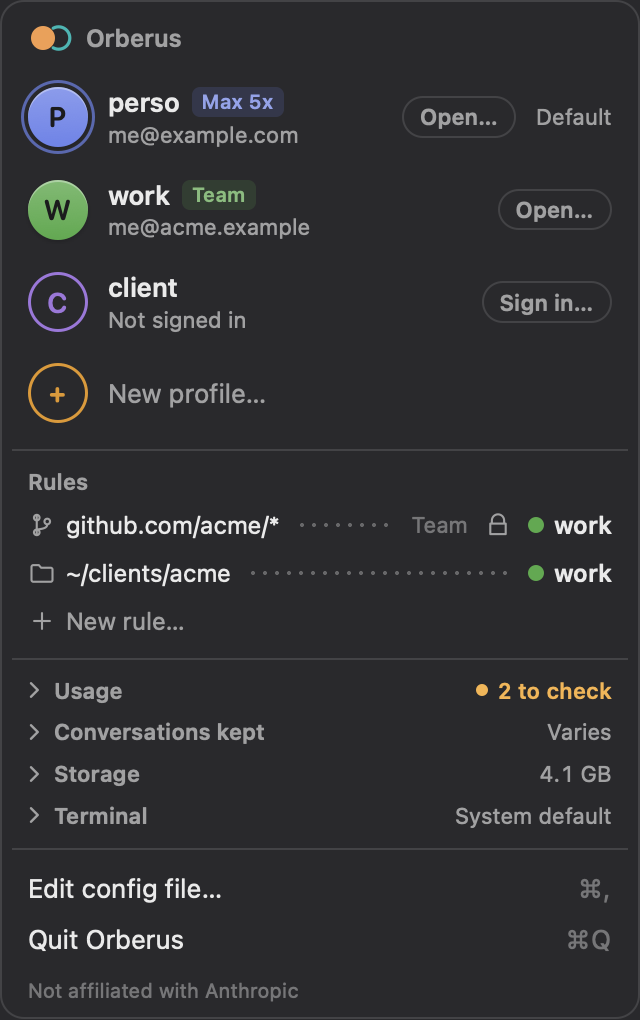
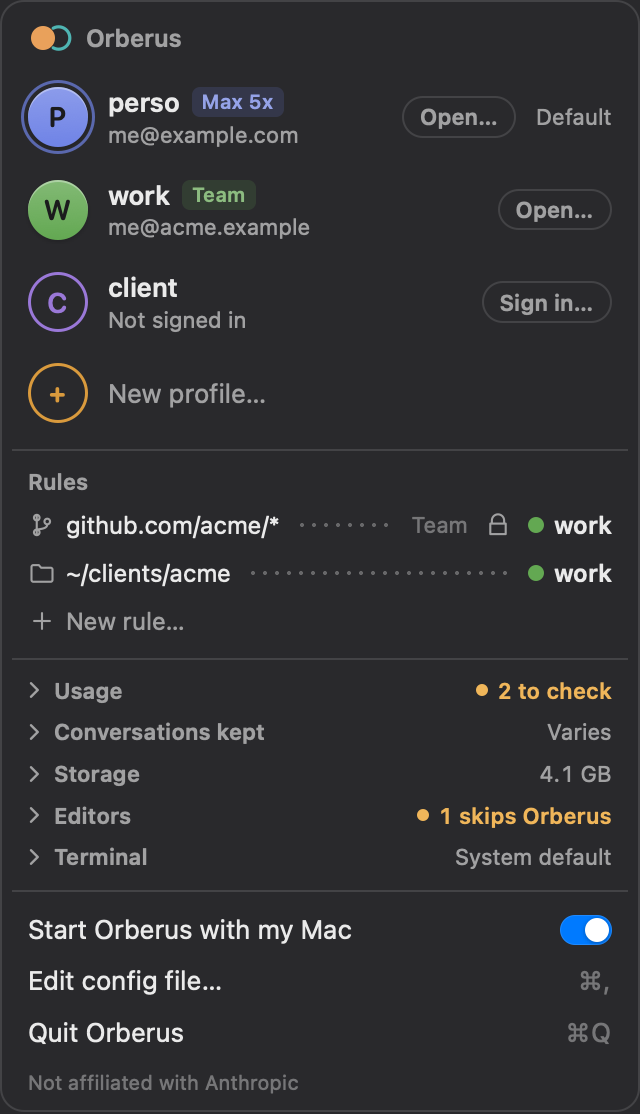
Bring the docs up to date with the app
The README, installation, how-it-works and troubleshooting pages now say
that the app opens at login by default and how to stop it, name the file
it writes, and mention the Editors section. The README's pictures of the
app are drawn again from the current interface.

diff --git a/app/src/api.ts b/app/src/api.ts
@@ -338,7 +338,8 @@ function preview(): Api {
     shimInstalled: true,
     canReuseLogin: false,
     terminal: null,
-    openAtLogin: false,
+    // On by default, as in the real app.
+    openAtLogin: true,
     profiles: [
       { name: "perso", account: "me@example.com", plan: "Max 5x", location: "~/.claude", native: true, isDefault: true, rules: 0, teamRules: 0, canPurge: false, keepsDays: 120, keepsError: null },
       {

diff --git a/README.md b/README.md
@@ -66,7 +66,8 @@ logos belong to their owners and only say what Orberus works with.
   conversations are kept, and move the biggest ones to the Trash.
 - **Limits at a glance**: the 5-hour and weekly limits of each account, side
   by side.
-- **Menu bar app** (optional): the same profiles and rules, one click away.
+- **Menu bar app** (optional): the same profiles and rules, one click away,
+  back in the menu bar each time you log in.
 
 <p align="center">
   <picture>
@@ -262,9 +263,12 @@ $ orberus retention work 365
 ### Menu bar app
 
 A small app that lives in the menu bar: your profiles and who is logged in to
-each, the rules, the limits and the usage by project, the disk space, and a
-button to open Claude Code in a profile. It speaks English and French.
-It reads and writes the same config as the CLI and is optional. See
+each, the rules, the limits and the usage by project, the disk space, your
+editors, and a button to open Claude Code in a profile. It speaks English and
+French, and opens by itself when you log in unless you turn that off.
+
+It reads and writes the same config as the CLI and is optional: `claude`
+picks the account by folder whether the app is open or not. See
 [docs/app.md](docs/app.md).
 
 ## Safety
@@ -283,6 +287,8 @@ It reads and writes the same config as the CLI and is optional. See
   last hour, since it may still be open. It never touches `memory/` folders.
 - `remove` keeps the profile's folder, so its login and history stay on disk.
   Only `remove --purge` deletes them, and it is refused for `~/.claude`.
+- The menu bar app writes one file outside `~/.orberus`, the one that opens
+  it when you log in. Its switch and `uninstall` delete it.
 - `uninstall` removes the tool and keeps your profiles. Nothing ever deletes
   `~/.claude`.
 

diff --git a/docs/installation.md b/docs/installation.md
@@ -70,6 +70,10 @@ open "/Applications/Orberus.app"
 
 The app is not signed either, so the same remark about `curl` applies.
 
+From then on the app opens by itself each time you log in, and macOS may tell
+you a background item was added. To stop that, turn off "Start Orberus with
+my Mac" at the bottom of its window. See [app.md](app.md#opening-it).
+
 ## Update
 
 Run the install commands again. For the app, quit it first (right-click its
@@ -85,8 +89,9 @@ orberus uninstall
 
 It removes the shim, the `PATH` line that `setup` added to your shell config,
 the setting that `orberus ide on` wrote in your editors, `orberus` itself and
-the menu bar app (moved to the Trash), after showing you the list and asking. Open a new terminal afterwards: `claude` is the real
-Claude Code again.
+the menu bar app (moved to the Trash, with the file that opens it when you
+log in), after showing you the list and asking. Open a new terminal
+afterwards: `claude` is the real Claude Code again.
 
 Your profiles are kept in `~/.orberus`: the config, the rules and the
 Claude Code folder of each profile, with its login and history. To delete

diff --git a/docs/how-it-works.md b/docs/how-it-works.md
@@ -125,7 +125,8 @@ Claude Code's own files.
 | `~/.orberus/bin/` | `orberus` and the `claude` shim |
 | `~/.orberus/ide/` | The wrapper that editor extensions start |
 | `~/.orberus/profiles/<name>/` | The Claude Code folder of a profile. Claude Code fills it |
-| `~/.orberus/run/` | Small launch scripts written by the menu bar app |
+| `~/.orberus/run/` | Small launch scripts and notes written by the menu bar app: the last folder of each profile, the terminal you chose |
+| `~/Library/LaunchAgents/com.github.tzdev0.orberus.plist` | Written by the menu bar app when it starts, so that macOS opens it at login. Its "Start Orberus with my Mac" switch deletes it |
 | `<profile folder>/settings.json` | Only the `cleanupPeriodDays` key, when you use `orberus retention` |
 | `.orberus-profile` in a folder | When you use `orberus use` |
 | Your shell config | One `PATH` line, if you accept it during `setup` |

diff --git a/docs/troubleshooting.md b/docs/troubleshooting.md
@@ -106,6 +106,20 @@ profiles that are still on the default.
 On a Mac with a notch, macOS hides icons when the menu bar is full. Open the
 app again from the Finder or Spotlight: its window appears.
 
+### The app opens by itself when I log in
+
+That is its default. Turn off "Start Orberus with my Mac" at the bottom of
+its window: the app deletes the file that asks macOS to open it,
+`~/Library/LaunchAgents/com.github.tzdev0.orberus.plist`, and remembers your
+choice. `claude` keeps picking the account by folder: the app is not needed
+for that.
+
+### The app does not come back after I log in
+
+Open it once and check that "Start Orberus with my Mac" is on. If it is, look
+at the login items in macOS's System Settings: macOS lists there what may
+open in the background, and lets you switch each one off.
+
 ## Known limits
 
 - **A running session keeps its account.** The choice is made when Claude

diff --git a/docs/commands.md b/docs/commands.md
@@ -119,6 +119,7 @@ This removes
   the PATH line that setup added to your shell config
   the setting that sends VS Code's Claude Code extension through Orberus
   orberus itself: ~/.orberus/bin/orberus
+  the setting that opens the menu bar app when you log in
   the menu bar app, moved to the Trash: /Applications/Orberus.app
   kept: your profiles and rules, in ~/.orberus (to delete them too: --purge)
 Uninstall Orberus? [y/N]
